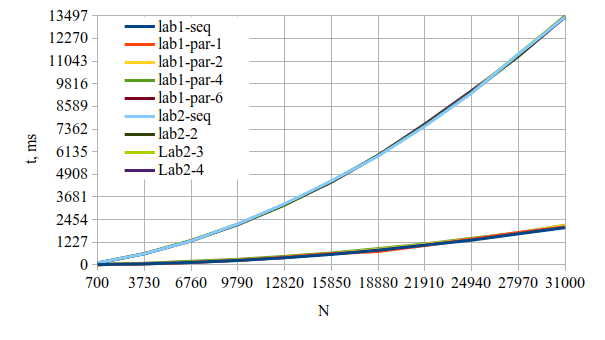
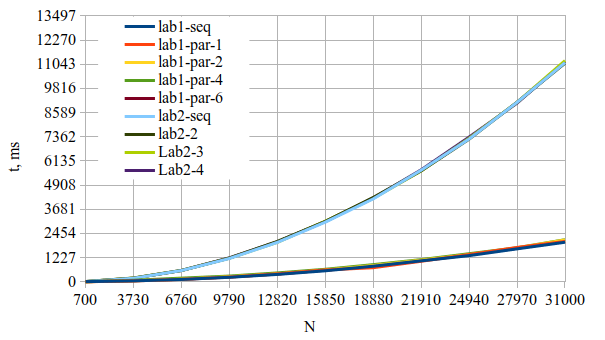
add test file and fix lab2 code

diff --git a/parallelnye/lab2/lab2.c b/parallelnye/lab2/lab2.c
@@ -27,9 +27,9 @@ int main(int argc, char *argv[]) {
     for (unsigned int i = 0; i < 50; i++) {
         srand(i); /*инициализировать начальное значение ГСЧ*/
         /*Заполнить массив исходных данных размером NxN*/
-        double M2_prep[N / 2];
-        double M1[N];
-        double M2[N / 2];
+        double *M2_prep = malloc(sizeof(double)* N / 2)
+        double *M1 = malloc(sizeof(double)*N);
+        double *M2 = malloc(sizeof(double)* N / 2);
 
 
         double s;
@@ -54,7 +54,9 @@ int main(int argc, char *argv[]) {
         //M2[0] = fabs(cos(M2[0]));
         fwsCos_64f_A50(&M2[0], &M2[0], 1);
         fwsAbs_64f(&M2[0], &M2[0], 1);
-
+        /* for (int j = 1; j < N / 2; j++) {
+             M2[j] = fabs(cos(M2[j] + M2[j - 1]));
+         }*/
         for (int j = 1; j < N / 2; j++) {
             M2_prep[j] = M2[j] + M2[j - 1];
             fwsCos_64f_A50(&M2_prep[j], &M2[j], 1);
